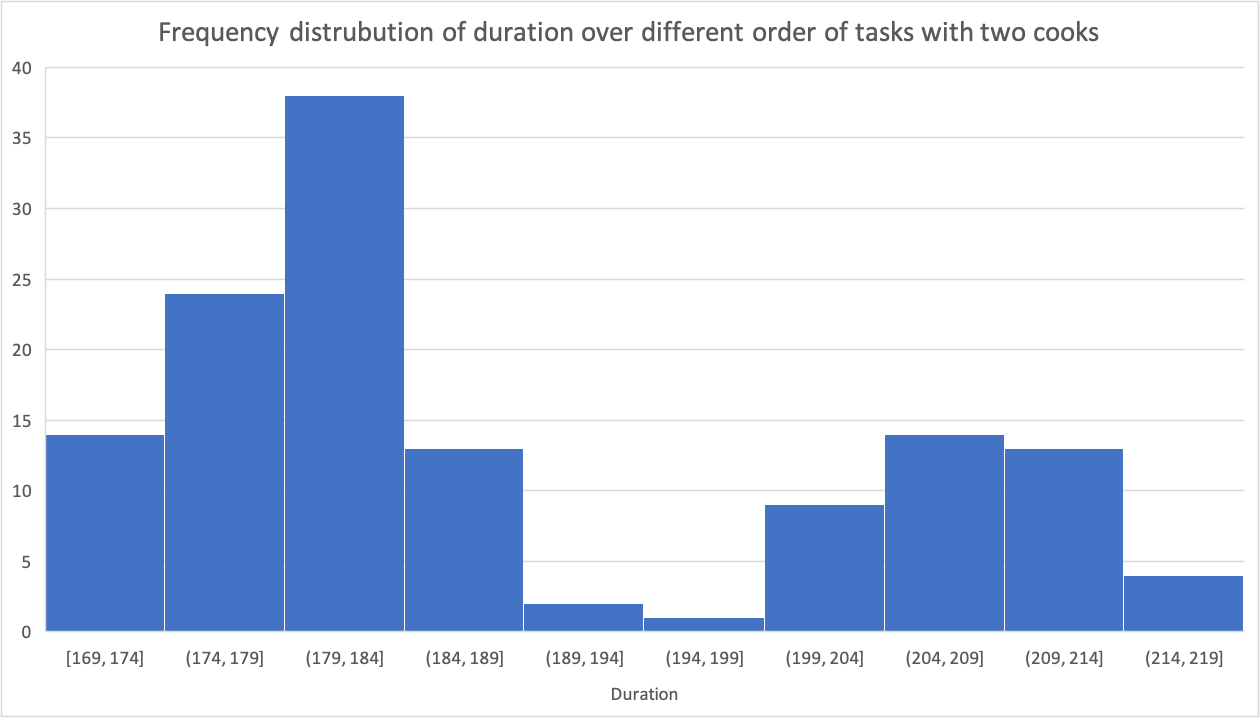
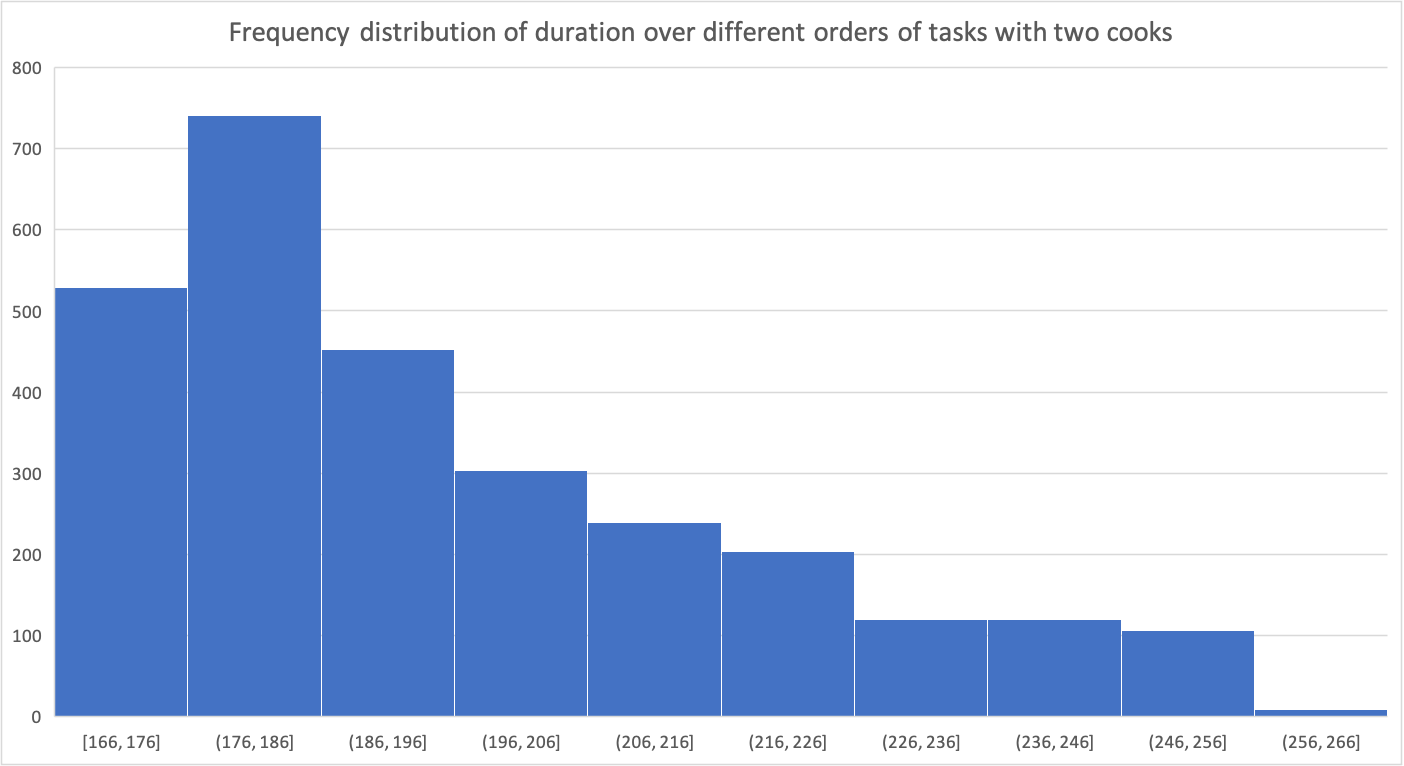
testing over 200 cases, fixed graphs

diff --git a/Documentation/chapters/simulationresults.tex b/Documentation/chapters/simulationresults.tex
@@ -1,7 +1,8 @@
-For the simulation results we looked into a few different \textcolor{red}{things}.
+For the simulation results we looked into a few different problematic topics.
 
 \subsection{Effect of different ordering}
-We wanted to see how big of an impact has the order of the tasks. That is why we looked for the best order for the recipe for goulash, and the worst one. This means the one that is done the quickest and the one that takes the longest.
+We wanted to see how big of an impact has the order of the tasks. That is why we looked for the best order of the recipe for goulash, and the worst one. 
+Meaning the one that is done the quickest and the one that takes the longest.
 The following results are done with two cooks and time randomness.
 
 \begin{verbnobox}[\fontsize{10pt}{10pt}\selectfont]
@@ -16,8 +17,8 @@ WORST ORDER: 253,
  frying onions, peeling potatoes, cooking potatoes, cooking everything]
 \end{verbnobox}
 
-We can see that the difference in duration is 55 units of time, which is not small. 
-This happens due to probalistic duration of time, but even without that, the difference would still be 30 units. The reason for that is the order of the first few tasks, 
+We can notice that the difference in duration is 85 units of time, which is not small. 
+This happens due to probalistic duration of time. Even without that, the difference would still be 60 units. The reason for that is the order of the first few tasks, 
 which have to be done before cooking potatoes and cooking everything. If they are not done in the best order, the simulation has to wait for a task to be finished before doing anything new. 
 
 \begin{figure}[H]
@@ -27,26 +28,26 @@ which have to be done before cooking potatoes and cooking everything. If they ar
 \end{figure}
 
 After seeing the difference an order of tasks can have, we were interested to see what are all possible durations of the recipe and which are the most common. 
-In the histogram below we can make out that most of the time the recipe is completed in between 179 to 184 units of time, this suggests the order was similar to the best order as seen above, with just some different permutations of the first few tasks.
+In the histogram \ref{fig4} below we can make out that most of the time the recipe is completed in between 176 to 186 units of time.
 
 \begin{figure}[H]
     \centerline{\includegraphics[scale=.5]{/Users/lanar/Documents/Cooking-model/Documentation/images/graph_duration.png}}
-    \caption{All possible durations of the recipe with two cooks, devided into groups by time interval 5 units.}
+    \caption{All possible durations of the recipe with two cooks, devided into groups by time interval 10 units.}
     \label{fig4}
 \end{figure}
 
-We also did the same calculations for just one cook, but got a somewhat different distrubution, with most of the odrers gathered in the middle. In this case the different durations were only a result of probalistic time assignment, 
-because when we ran the stohastic model, we only got one option of duration which is 251. This can be seen on the graph where most orders are between 243 to 248 units of time. 
+We also did the same calculations for just one cook, but got a somewhat different distrubution, with most of the orders gathered in the middle, and there is not one interval that would significantly stand out. 
+Most orders of tasks were completed in 240 to 260 units of time. This corelates with the optimal time for one cook, which is 251 units of time.
 
 \begin{figure}[H]
     \centerline{\includegraphics[scale=.5]{/Users/lanar/Documents/Cooking-model/Documentation/images/graph_duration1.png}}
-    \caption{All possible durations of the recipe with one cook, devided into groups by time interval 5 units.}
+    \caption{All possible durations of the recipe with one cook, devided into groups by time interval 10 units.}
     \label{fig5}
 \end{figure}
 
 \newpage
 \subsection{Recipe comparison to cook book}
-For our second dish we decided to do potato salad. We found a recipe in a cook book and adjusted it to our program. We wanted to test if the calculated optimal order for one cook matches the order in the cook book.
+For our second dish we decided to do potato salad. We found a recipe in a cook book \cite[page 42]{book} and adjusted it to our program. We wanted to test if the calculated optimal order for one cook matches the order in the cook book.
 Here we can see the two orders:
 
 \begin{verbnobox}[\fontsize{10pt}{10pt}\selectfont]
@@ -64,55 +65,55 @@ Here we can see the two orders:
     - mixing enerything                         - mixing enerything
 \end{verbnobox}
 
-We can see that the two orders don not differ much. Some tasks are done in different order, but those are mainly interchangable. One different thing is when the dressing is done. 
-But this is because in real life you would want it to be freshly done before completing the salad, and our program does not take this into account. 
+We can spot that the two orders do not differ much. Some tasks are done in a different order, but those are mainly interchangable. One different thing is when the dressing is done. 
+This is because in real life you would want it to be freshly done before completing the salad. Unfortunately, our program does not take this into account. 
 
 \subsection{Different number of resources}
-Lastly we focused on the number of resources to see if it really has that big of an effect on duration. 
-We ran the program 5 times for each number of cooks and took the average of the optimal time. We gave the other resources a high enough quantity so that it won't effect the duration.
-These are the graphs we got.
+Lastly, we focused on the number of resources to see if it really has that big of an effect on duration. 
+We ran the program 200 times for each number of cooks and took the average of the optimal time. We gave the other resources a high enough quantity so that it will not affect the duration.
+These are the graphs we got for the recipe goulash \ref{fig6} and for potato salad \ref{fig7}.
 
 \begin{figure}[H]
     \centering
     \begin{minipage}{.5\textwidth}
       \centering
       \includegraphics[width=.9\linewidth]{/Users/lanar/Documents/Cooking-model/Documentation/images/optimal_durationG.png}
-      \caption{Duration of recipe goulash with \\ different number of cooks}
+      \caption{Duration of recipe goulash with \\ different number of cooks,\\ calculated average over 200 iterations.}
       \label{fig6}
     \end{minipage}%
     \begin{minipage}{.5\textwidth}
       \centering
       \includegraphics[width=.9\linewidth]{/Users/lanar/Documents/Cooking-model/Documentation/images/optimal_durationS.png}
-      \caption{Duration of recipe potato salad with different number of cooks.}
+      \caption{Duration of recipe potato salad with different number of cooks, calculated average over 200 iterations.}
       \label{fig7}
     \end{minipage}
 \end{figure}
 
-As you can see there is only a difference when using one or two cooks, after that you can use as many as you want, but the duration won't change. 
-This is because the tasks in our recipes already have an order in which they have to be done and even if you have another cook, he still has to wait for the other task to finish. 
-To test our program we decided to make another recipe, where we tried to do it so, that a different number of cooks will have a bigger effect.
+As you can see, there is only a difference between using one or two cooks. After that you can use as many as you want, but the duration will not change. 
+This happens because the tasks in our recipes already have an order in which they have to be done. Even if you have another cook, he still has to wait for the other task to finish. 
+To challenge our program we decided to make another recipe, where we tried to construct it so, that a different number of cooks will have a bigger effect.
 
 \begin{figure}[H]
     \centerline{\includegraphics[scale=.5]{/Users/lanar/Documents/Cooking-model/Documentation/images/graph_durationC.png}}
-    \caption{Duration of recipe cake with different number of cooks.}
+    \caption{Duration of recipe cake with different number of cooks, calculated average over 50 iterations.}
     \label{fig8}
 \end{figure}
 
-These are the results we got with implementing the recipe of baking a cake. We wanted to have more independant tasks and less strict prior ordering. 
-In this recipe you have to do a lot of tasks independantly and then there is just a few tasks that combine all of them. This way you can see a difference 
-between one, two and three cooks, but when it comes to four, the duration still remains the same. FUrthermore the difference was very small, only 6 time uhnits. This brings us to the conslusion that with every recipe 
-there will be a point where the number of cooks doesn't matter anymore. 
+These \ref{fig8} are the results we got with implementing the recipe of baking a cake. We wanted to have more independant tasks and less strict prior ordering. 
+In the recipe you have to do a lot of tasks independantly and just a few tasks that combine all of them. This way you can spot a difference 
+between one, two and three cooks. However, when it comes to four, the duration still remains the same. Furthermore the difference was very small, only 6 time units. This brings us to the conclusion that with every recipe 
+there will be a point where the number of cooks does not matter anymore. 
 
 %ADD GRAPH FOR POTATO SALAD, ONLY ONE OF EVERY RESOURCE
 
-Besides observing the effect of the number of cooks, we did the same for other resources. Here you can see the duration for making goulash when having:
+Besides observing the effect of the number of cooks, we did the same for other resources. Following you can see the duration for making goulash when having:
 \begin{itemize}
     \item double of everything: 181
     \item only one pan: 191
     \item only one knife: 181
 \end{itemize}
 
-This is because in the optimal recipe two knives are never used at the same time, while the pan is used for cooking the meat and frying the onions which is done at the same time. 
+This happens because, as you can see on figure \ref{fig9}, in the optimal recipe two knives are never used at the same time, while the pan is used for cooking the meat and frying the onions which is done at the same time. 
 
 \begin{figure}[H]
     \centerline{\includegraphics[scale=.4]{/Users/lanar/Documents/Cooking-model/Documentation/images/resources.png}}

diff --git a/app.py b/app.py
@@ -3,7 +3,7 @@ import random
 import itertools
 from collections import Counter
 
-RECIPE = "recipe_goulash" 
+RECIPE = "recipe_cake" 
 #"recipe_potato_salad"
 #"recipe_cake"
 #"recipe_goulash" 
@@ -108,9 +108,9 @@ class DiscreteEventSimulator:
     def check_resources(self):
         all_resources = []
         for task in self.cooking.alltasks:
-            all_resources += task["required_resources"] 
-        if list(set(all_resources)) != list(set(self.cooking.resources)):
-            raise ValueError("You don't have the right resources.")
+            all_resources += task["required_resources"]
+        if not set(all_resources).issubset(set(self.cooking.resources)):
+            raise ValueError("You do not have the right resources.")
 
 
 def run(permutations):
@@ -129,7 +129,7 @@ def run(permutations):
 
             values.append(value)
     values.sort()
-    print([value[0] for value in values])
+    #print([value[0] for value in values])
 
     #the first one will have the shortest time, therefore the best order
     return values[0]
@@ -203,12 +203,17 @@ def time_randomness(duration):
     time_random = random.randrange(max( duration - TIME_CHANGE_FACTOR, 2), duration + TIME_CHANGE_FACTOR)
     return time_random
 
-#TODO - function that checks if we have all resources
-#run at the start of run
+def tests_duration(num):
+    all_times = []
+    for i in range(num):
+        duration = run(smart_permutations(RECIPE))
+        print(i)
+        all_times.append(duration[0])
+    return all_times
 
 
 #Getting the best time and order, by trying all permutations
-print(run(all_permutations(RECIPE)))
+#print(run(all_permutations(RECIPE)))
 
 
 #Getting the best time and order, by not trying all permutations
@@ -220,3 +225,4 @@ print(run(all_permutations(RECIPE)))
 #value = simulator.run_simulation()
 #print(value)
 
+print(tests_duration(50))
